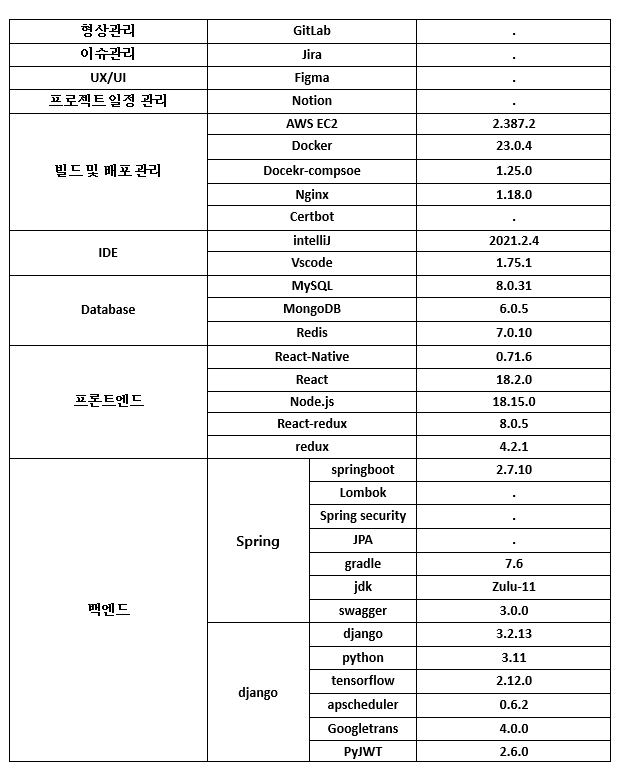
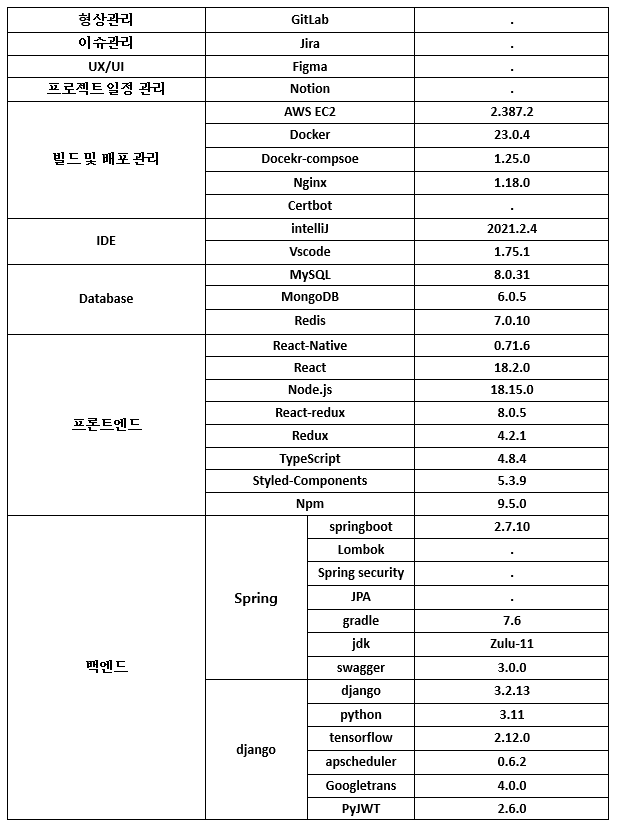
📝 docs : 깃 리드미 작성

diff --git a/README.md b/README.md
@@ -98,11 +98,13 @@
 
 ## 4. 시스템 아키텍쳐
 
+<img src="./docs/img/architecture.jpg"  width="700">
+
 ---
 
 ## 5. 개발 환경
 
-<img src="./docs/img/skill.png"  width="700" height="700">
+<img src="./docs/img/skill.png"  width="700">
 
 ---
 
